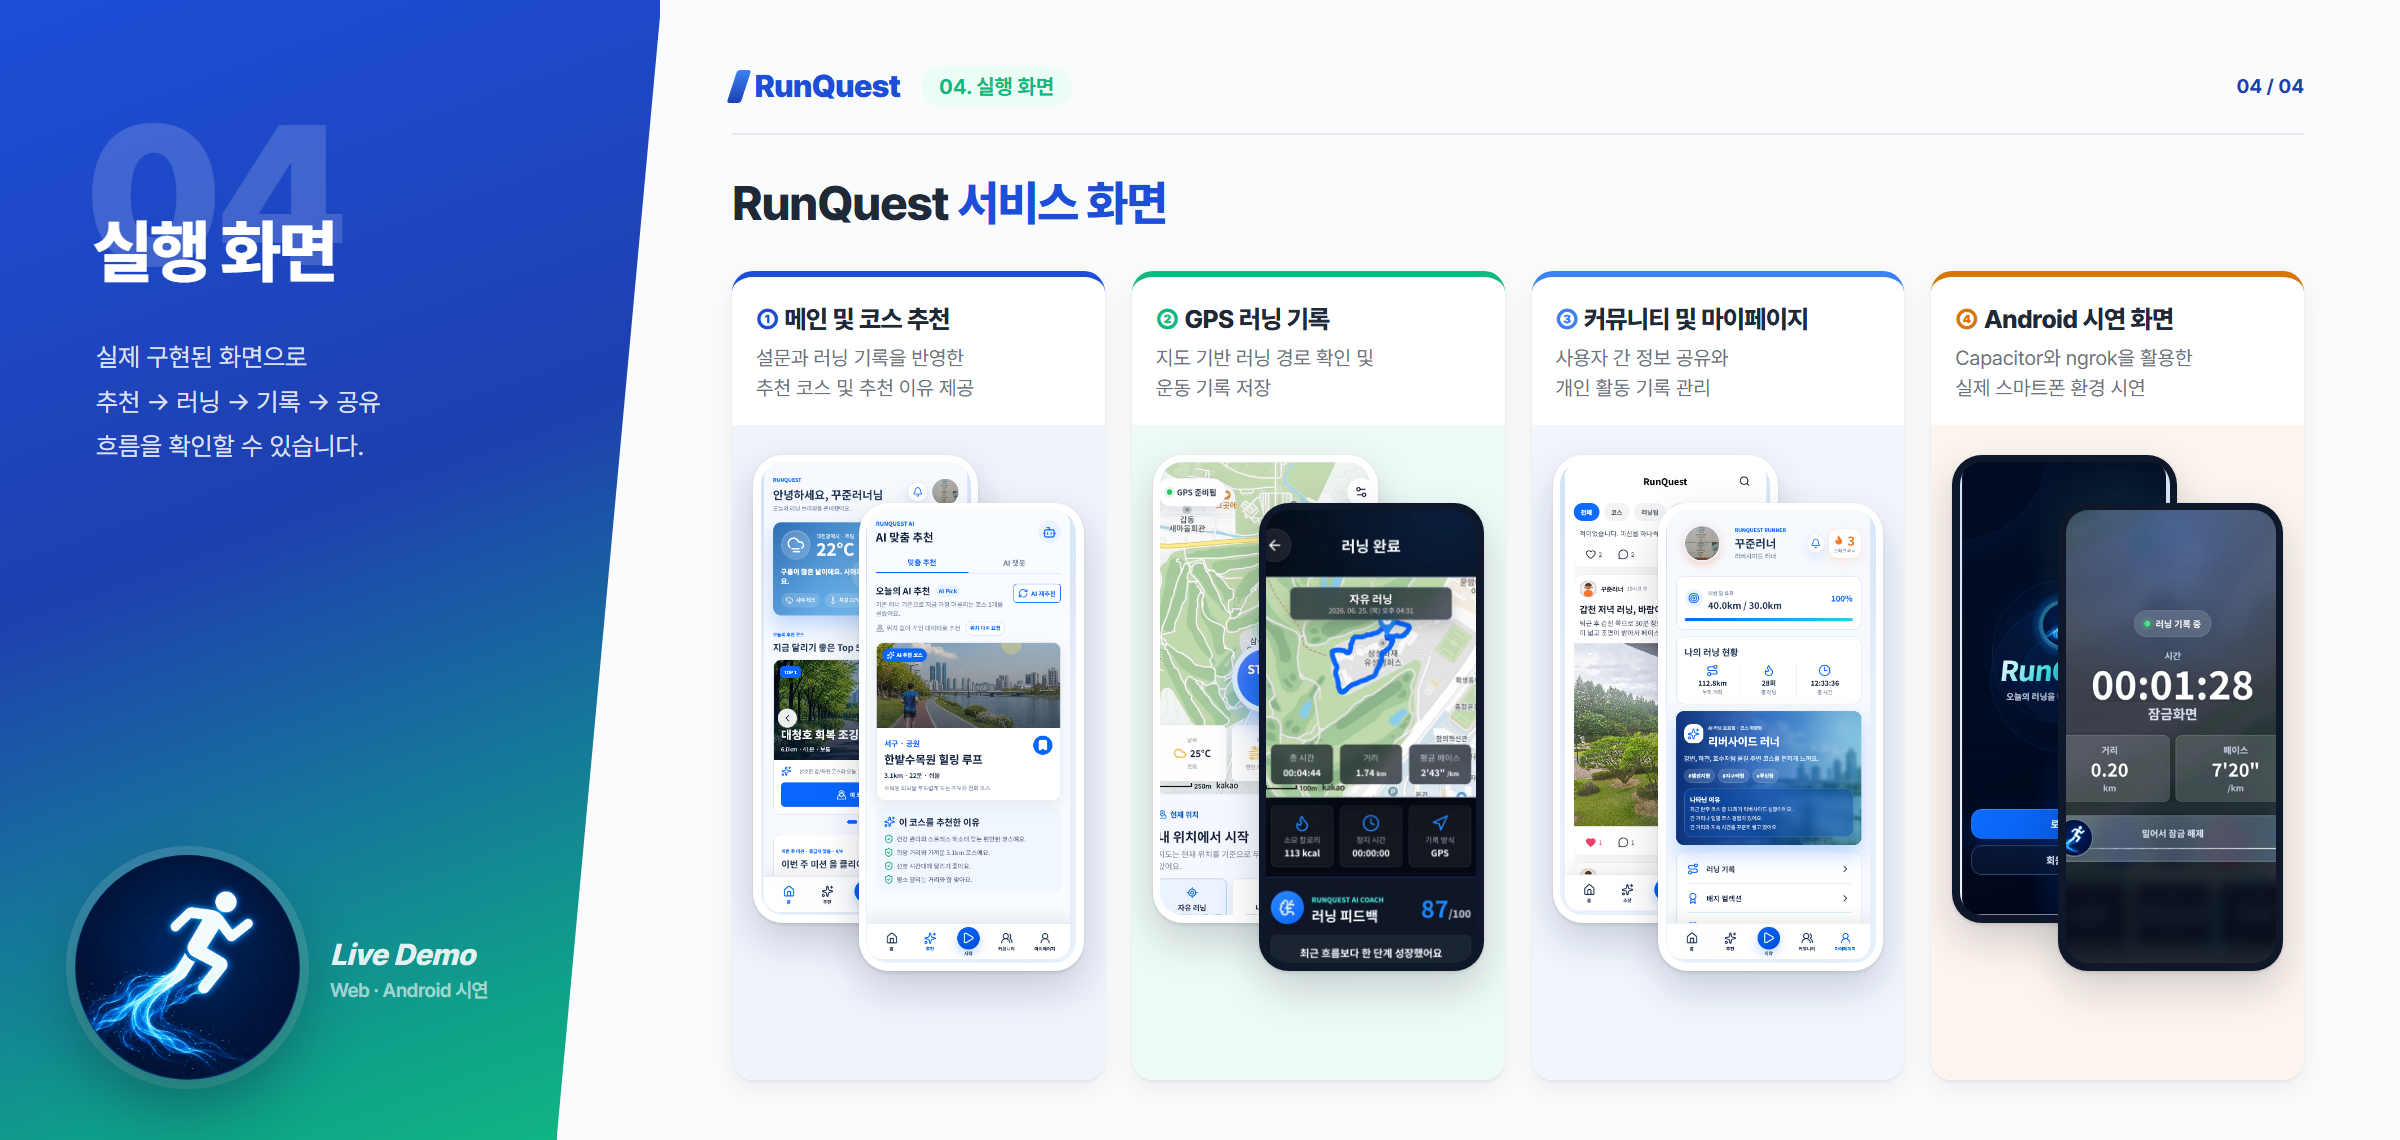
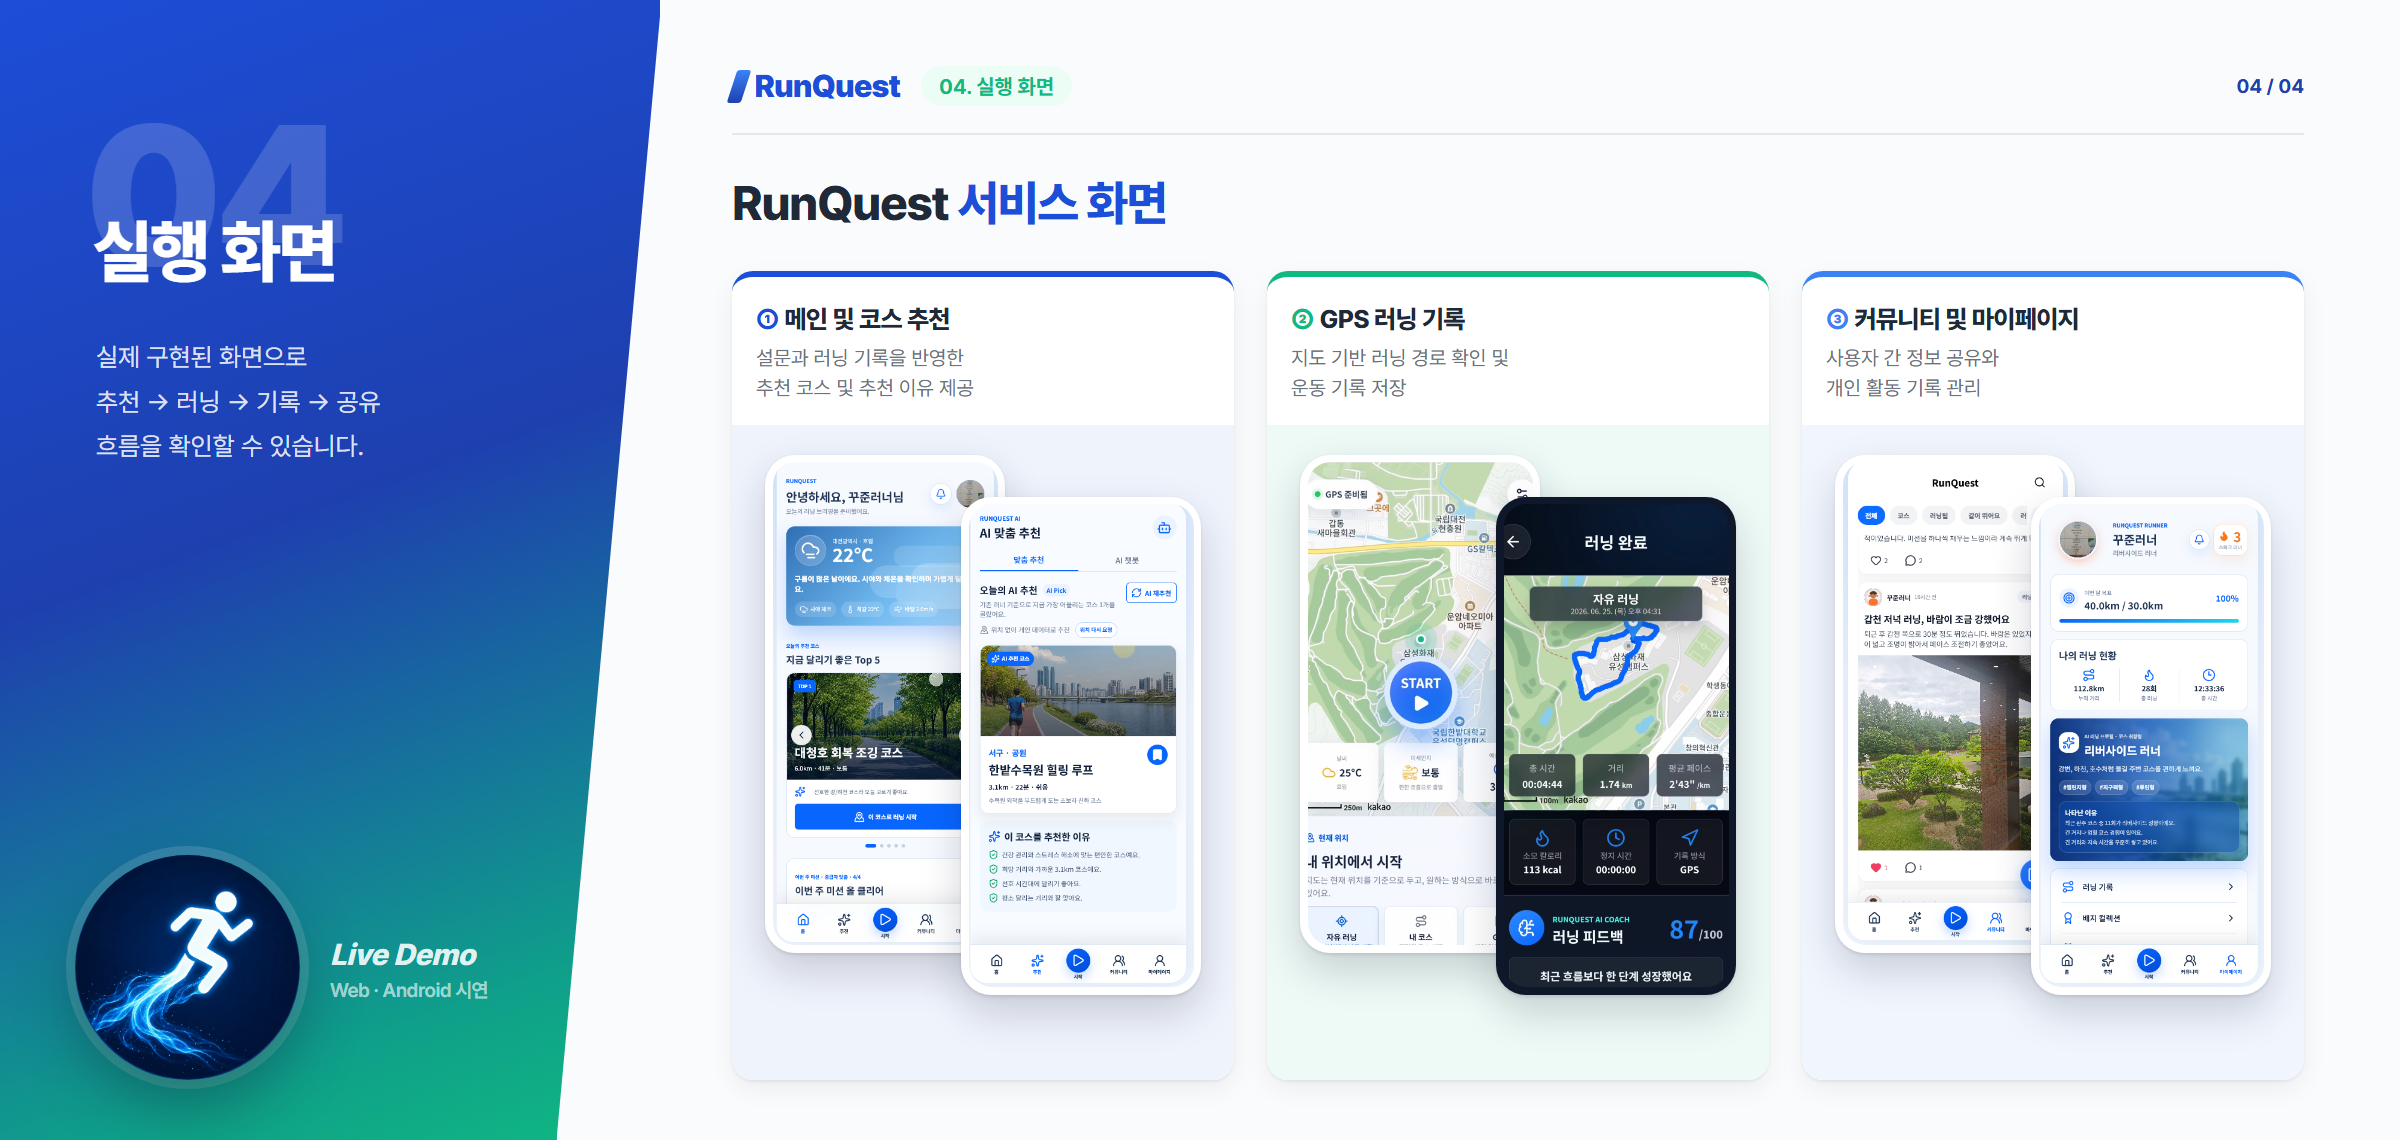
Drop Android demo group from screens slide

Changed region(s): [[0.3125, 0.3991, 0.9688, 0.8904], [0.625, 0.2149, 0.9688, 0.3684], [0.4688, 0.2149, 0.625, 0.3684]]

diff --git a/docs/readme/slides.html b/docs/readme/slides.html
@@ -402,8 +402,8 @@
   .groups {
     flex: 1;
     display: grid;
-    grid-template-columns: repeat(4, 1fr);
-    gap: 18px;
+    grid-template-columns: repeat(3, 1fr);
+    gap: 22px;
   }
   .group {
     display: flex;
@@ -449,8 +449,8 @@
   }
   .phone {
     position: absolute;
-    width: 150px;
-    height: 312px;
+    width: 160px;
+    height: 332px;
     border-radius: 20px;
     padding: 5px;
     background: #fff;
@@ -466,8 +466,8 @@
     border-radius: 15px;
     display: block;
   }
-  .phone.a { left: 14px; top: 20px; }
-  .phone.b { right: 14px; top: 52px; }
+  .phone.a { left: 22px; top: 20px; }
+  .phone.b { right: 22px; top: 48px; }
   .g1 { --c: var(--blue-700); }
   .g2 { --c: var(--green); }
   .g3 { --c: var(--blue-500); }
@@ -597,14 +597,6 @@
         <div class="pair">
           <div class="phone a"><img src="../../실행화면/커뮤니티.png" alt=""></div>
           <div class="phone b"><img src="../../실행화면/마이페이지.png" alt=""></div>
-        </div>
-      </div>
-      <div class="group g4">
-        <h5><span>④</span>Android 시연 화면</h5>
-        <p>Capacitor와 ngrok을 활용한<br>실제 스마트폰 환경 시연</p>
-        <div class="pair">
-          <div class="phone a dark"><img src="../../실행화면/시작페이지.png" alt=""></div>
-          <div class="phone b dark"><img src="../../실행화면/러닝 기록 중.png" alt=""></div>
         </div>
       </div>
     </div>
